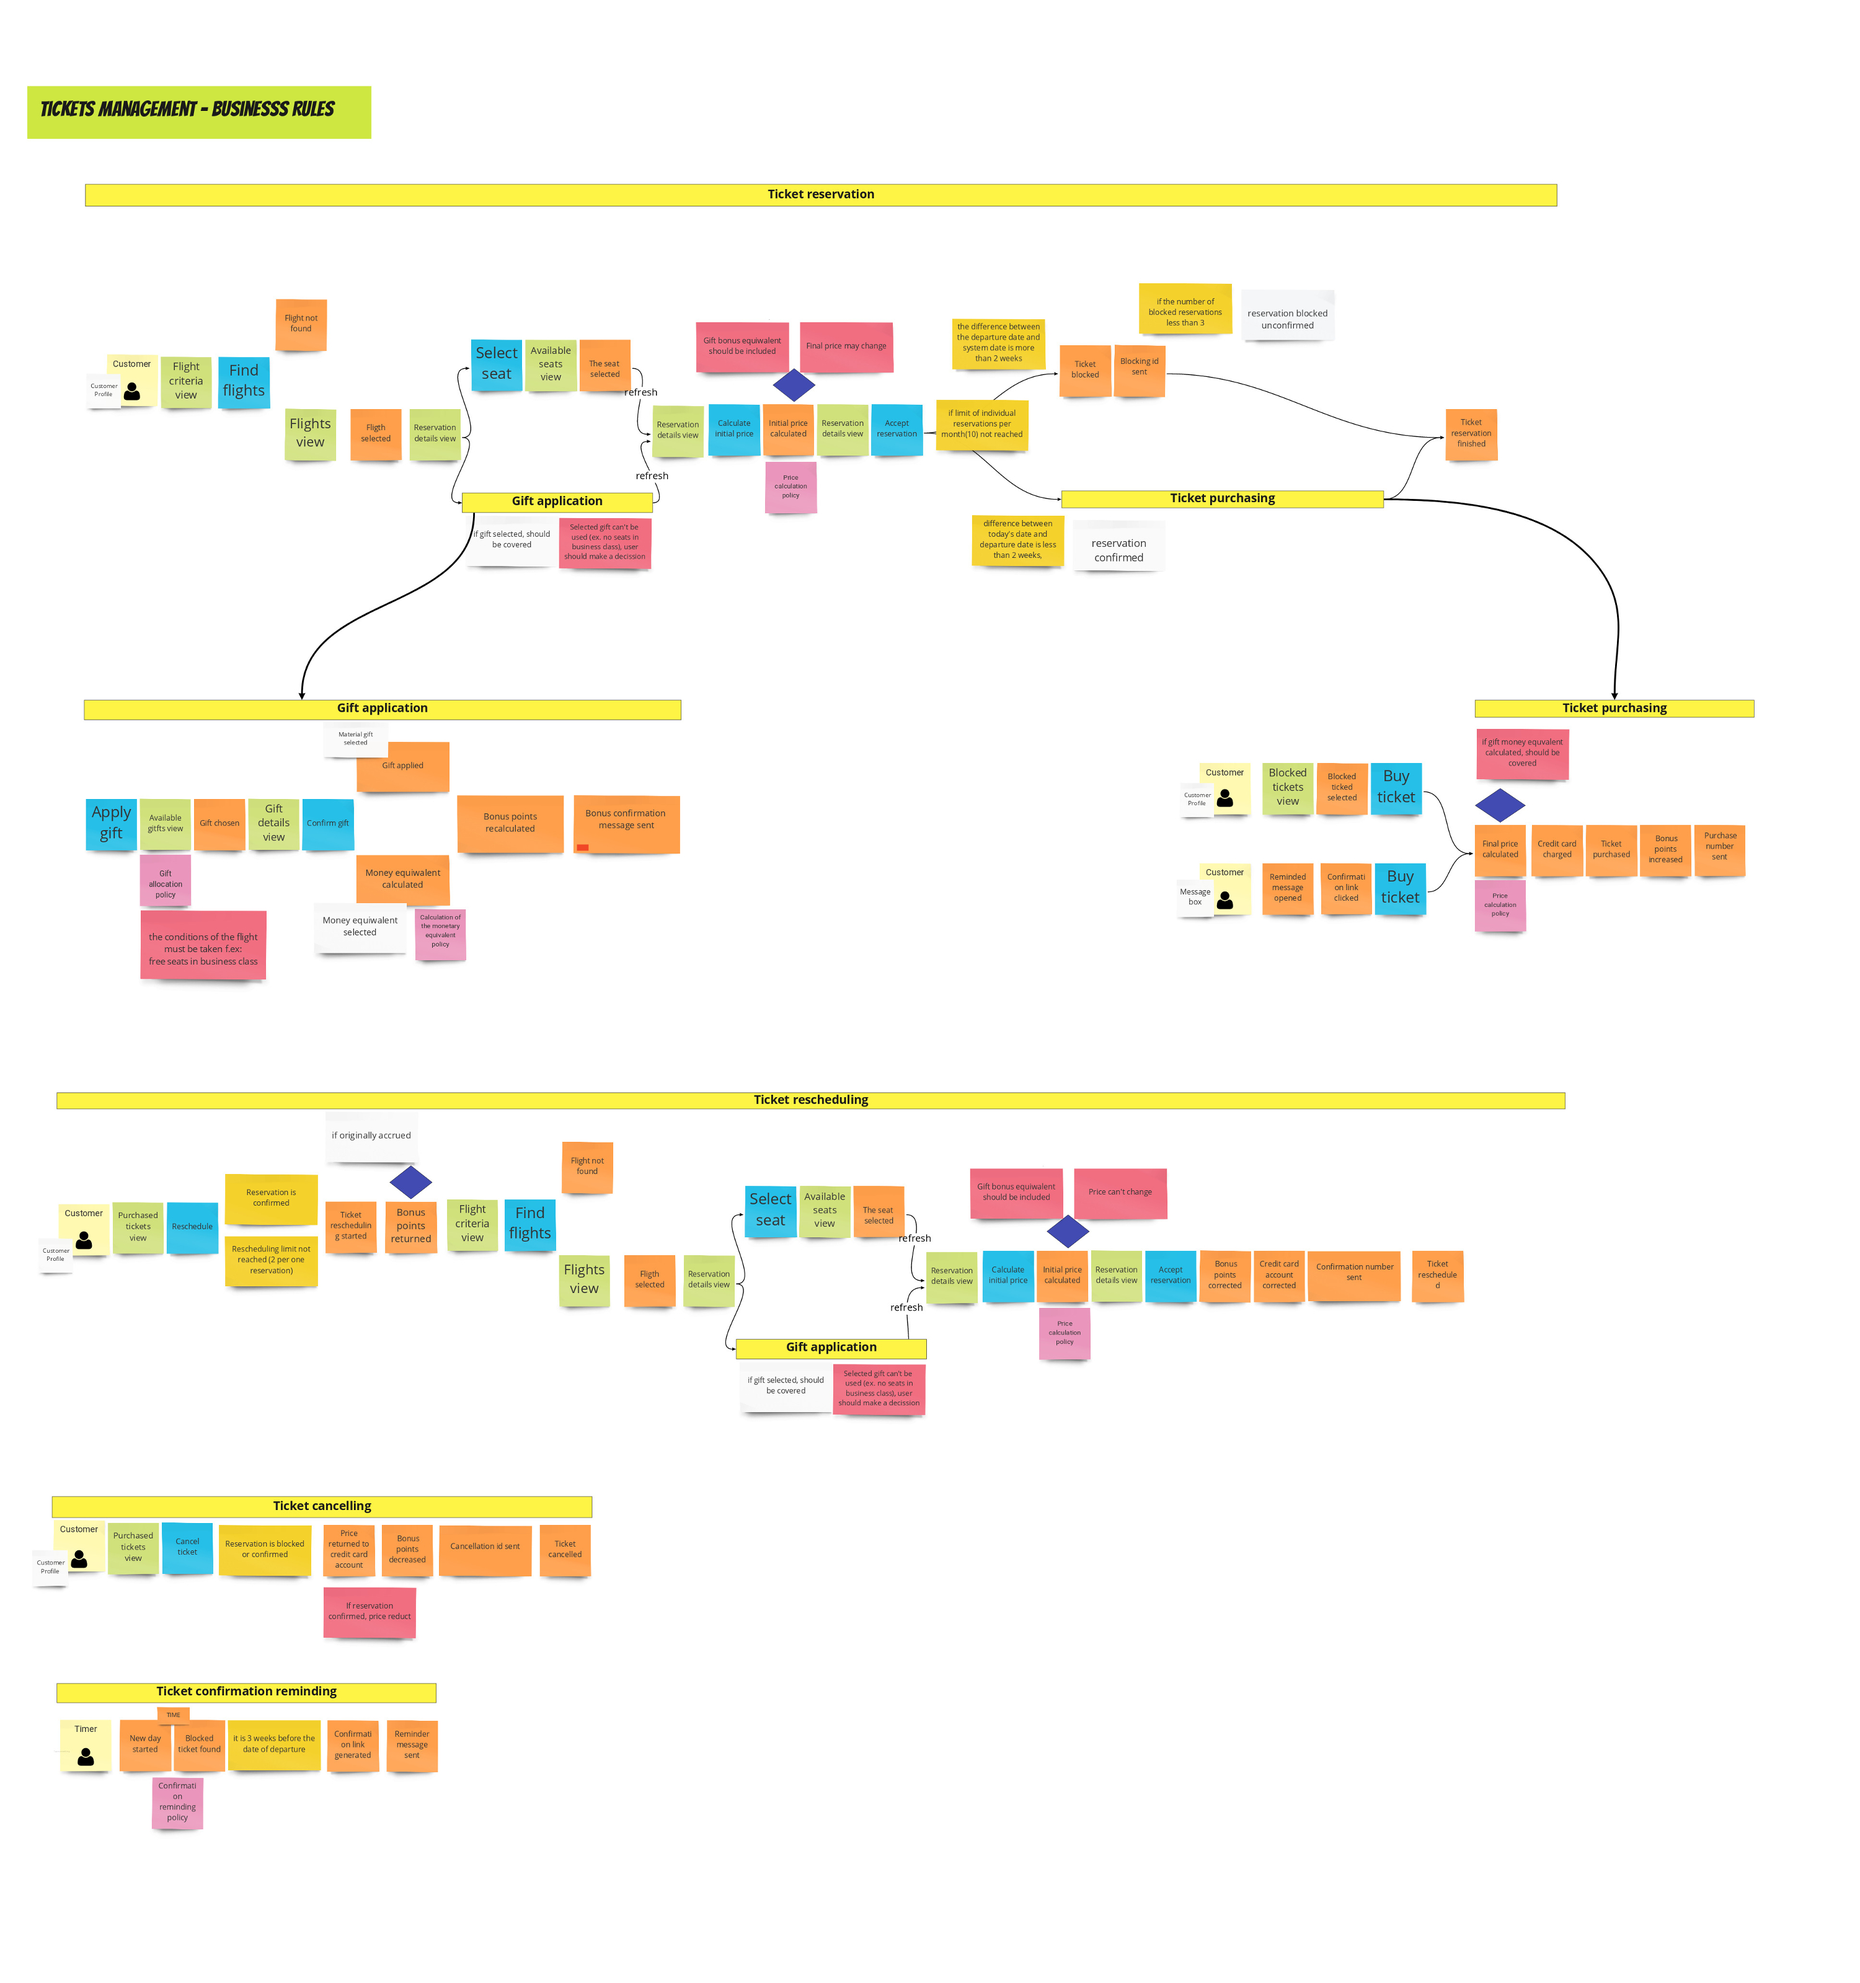
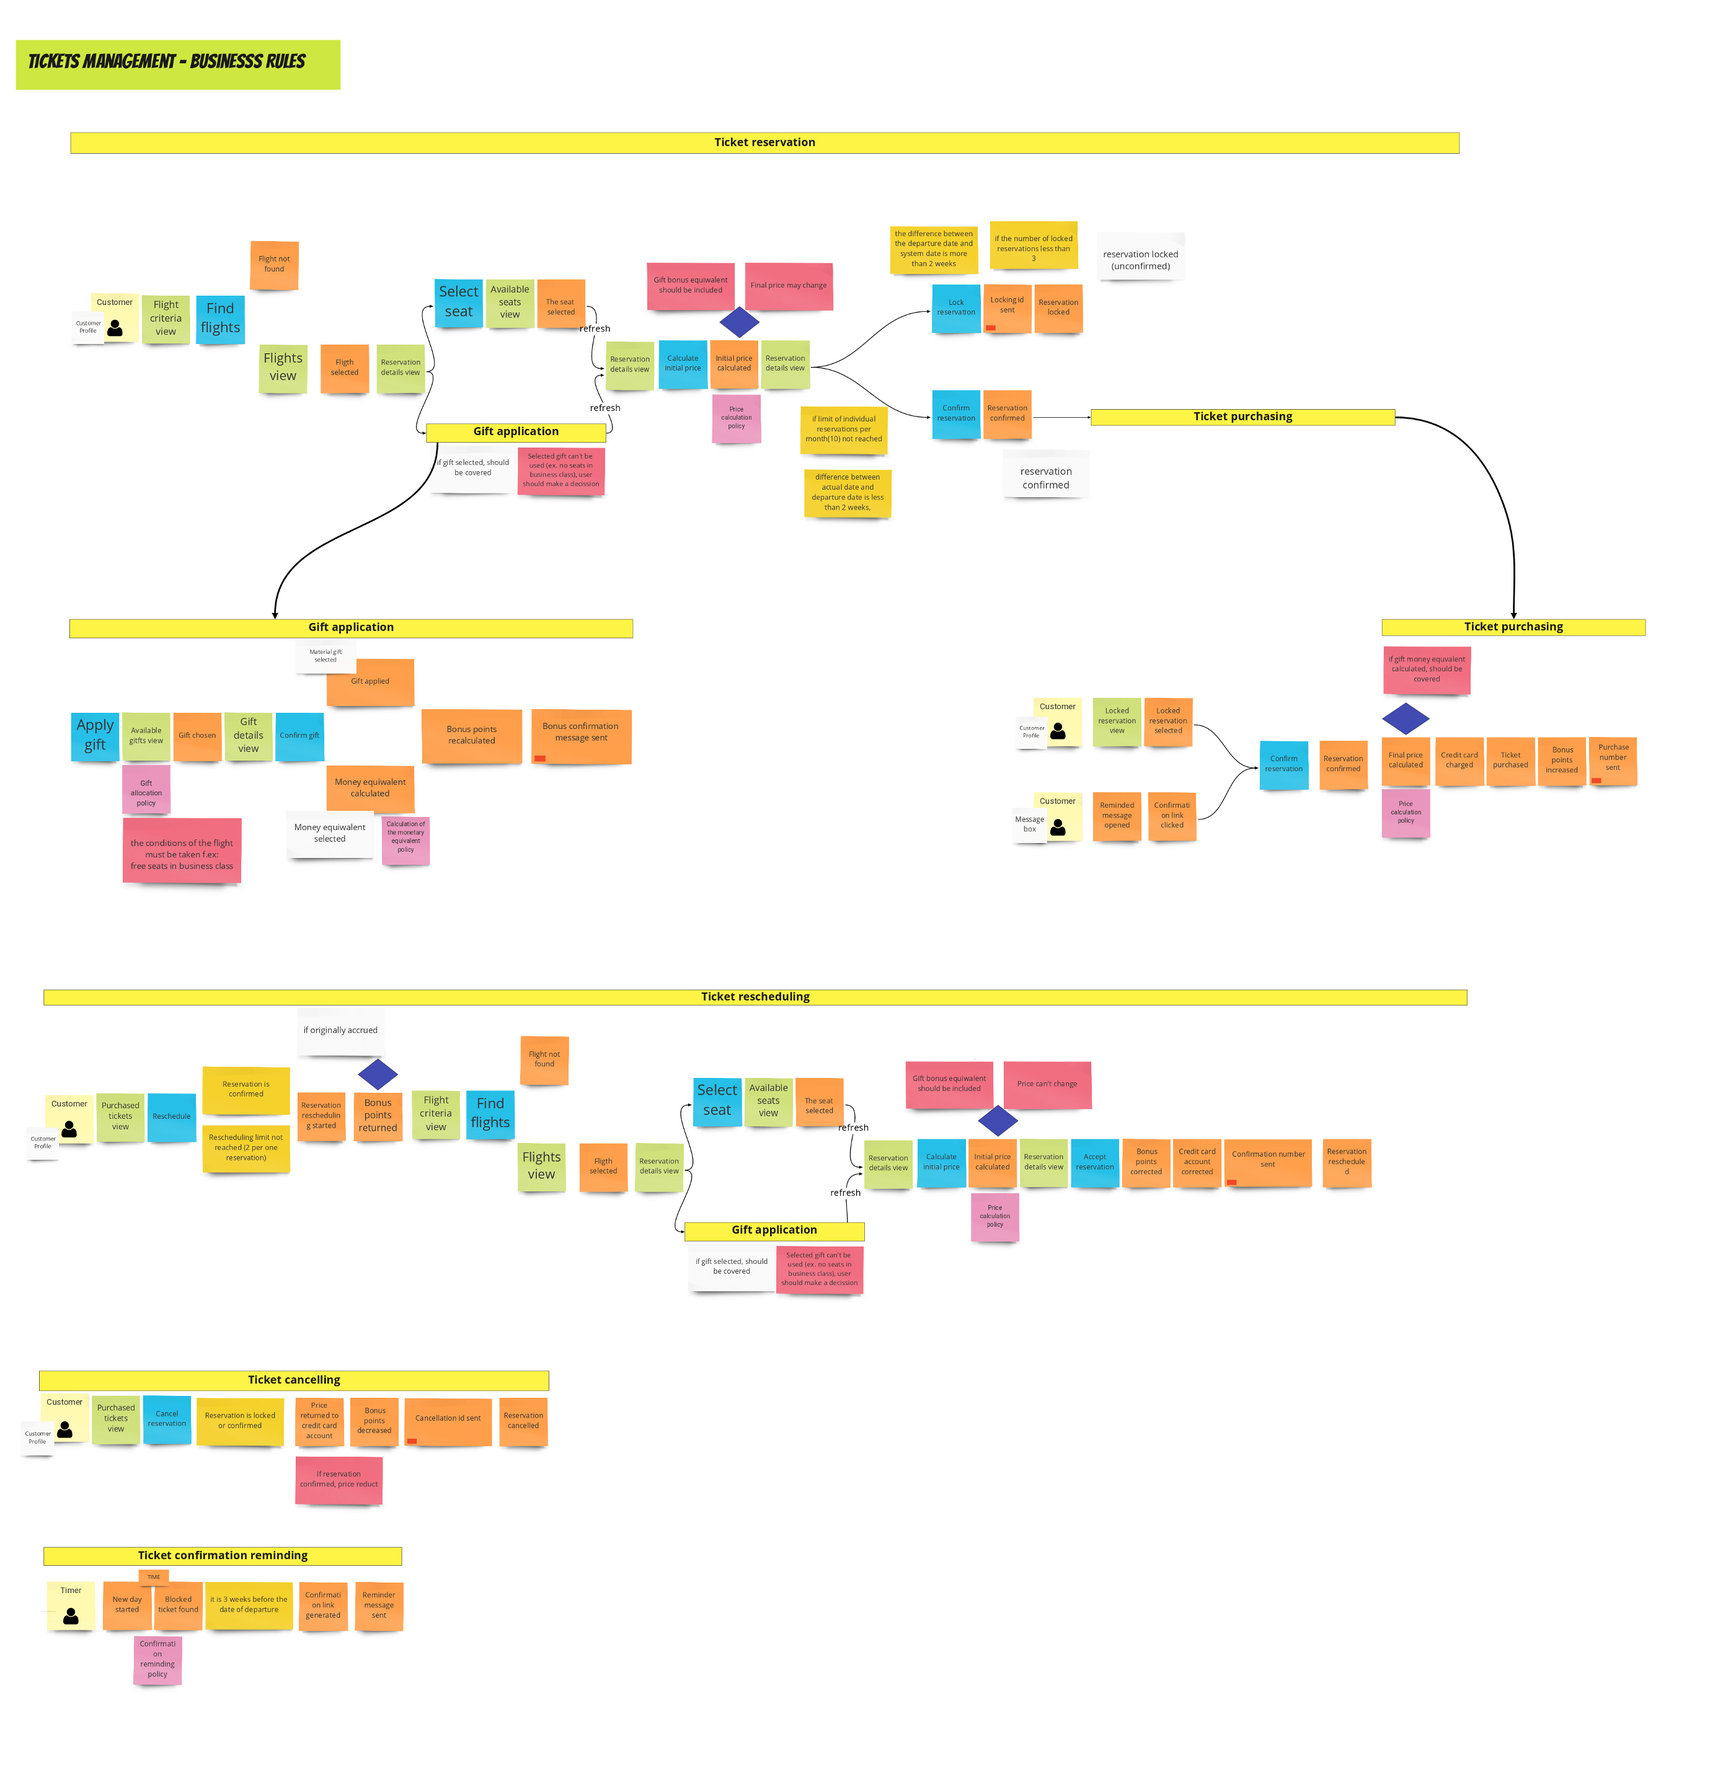
aggregate

diff --git a/readme.md b/readme.md
@@ -289,3 +289,8 @@ During the session it turned out that it is necessary to redefine Gifts Bounded 
   ![](img/air-design-level-ticket-management-designlevel.jpg)  
   
  This level of detail is sufficient to start implementation.
+ 
+ #### Aggregates
+ 
+  ![](img/air-aggregate-reservation.jpg)
+ 
